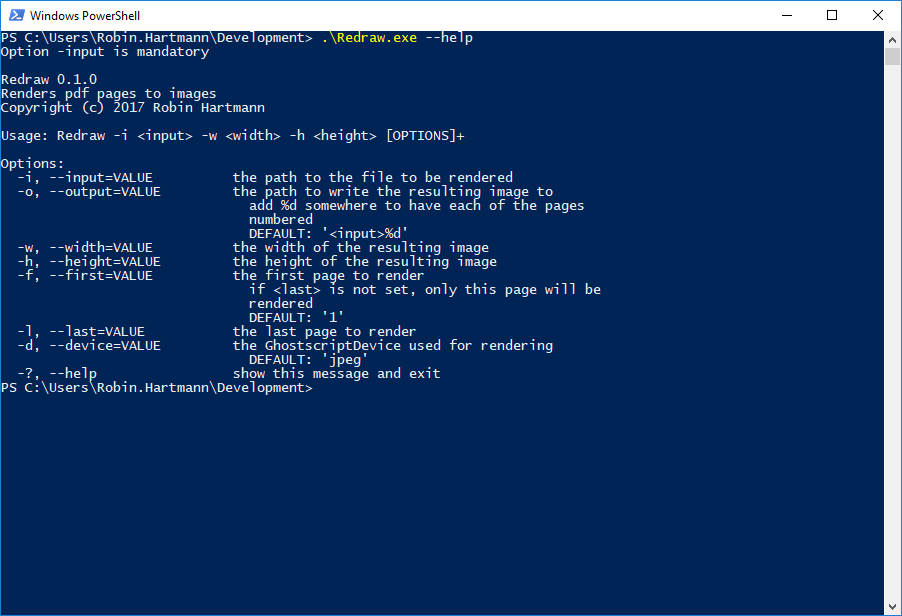
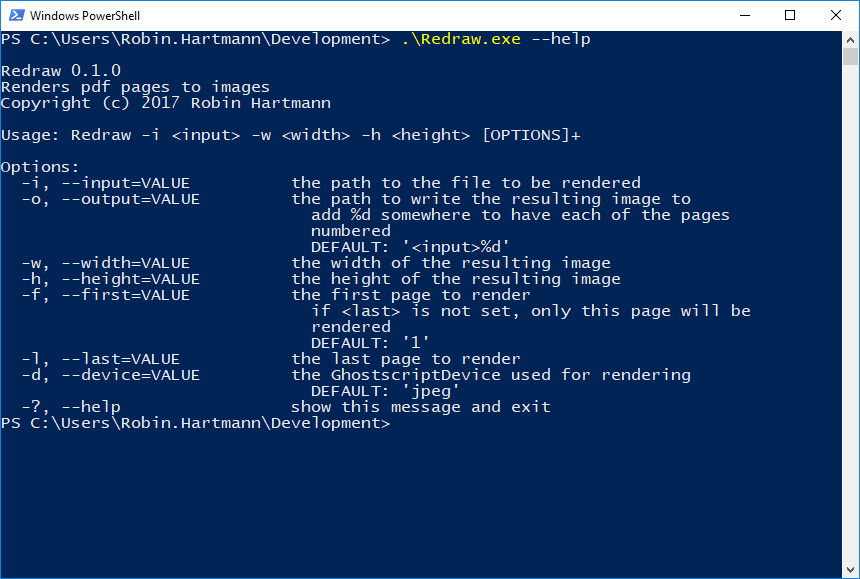
Improve handling of --help - update screenshot

Changed region(s): [[0.0, 0.0, 0.9674, 0.7461], [0.9674, 0.0622, 0.9977, 0.1244], [0.9674, 0.0, 0.9977, 0.0311]]

diff --git a/Redraw/ArgumentsProcessor.cs b/Redraw/ArgumentsProcessor.cs
@@ -44,22 +44,19 @@ namespace Redraw
 
         public static RedrawConfig Process(string[] arguments)
         {
-            if (arguments.Length == 0)
+            try
             {
-                showUsage = true;
-            }
-            else
-            {
-                try
+                OptionSet.Parse(arguments);
+
+                if (!showUsage)
                 {
-                    OptionSet.Parse(arguments);
                     PostProcessOptions();
                 }
-                catch (OptionException e)
-                {
-                    Console.WriteLine(e.Message);
-                    showUsage = true;
-                }
+            }
+            catch (OptionException e)
+            {
+                Console.WriteLine(e.Message);
+                showUsage = true;
             }
 
             if (showUsage)
